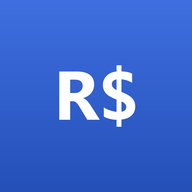
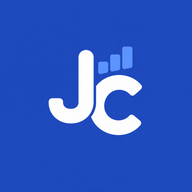
Atualiza tela

diff --git a/previa.html b/previa.html
@@ -190,7 +190,7 @@ let SESSAO = ler('fin_sessao');
 function mostrarLogin(msg) {
   SESSAO = null; guardar('fin_sessao', null);
   $('titulo').textContent = 'Finanças';
-  $('conteudo').innerHTML = `<div class="login"><div class="marca">R$</div><p>Entre com a sua conta Google.</p>${msg ? `<div class="erro">${esc(msg)}</div>` : ''}<div id="botaoGoogle"></div></div>`;
+  $('conteudo').innerHTML = `<div class="login"><img class="marca" src="icon-192.png" alt=""><p>Entre com a sua conta Google.</p>${msg ? `<div class="erro">${esc(msg)}</div>` : ''}<div id="botaoGoogle"></div></div>`;
   desenharBotao();
 }
 function desenharBotao() {
